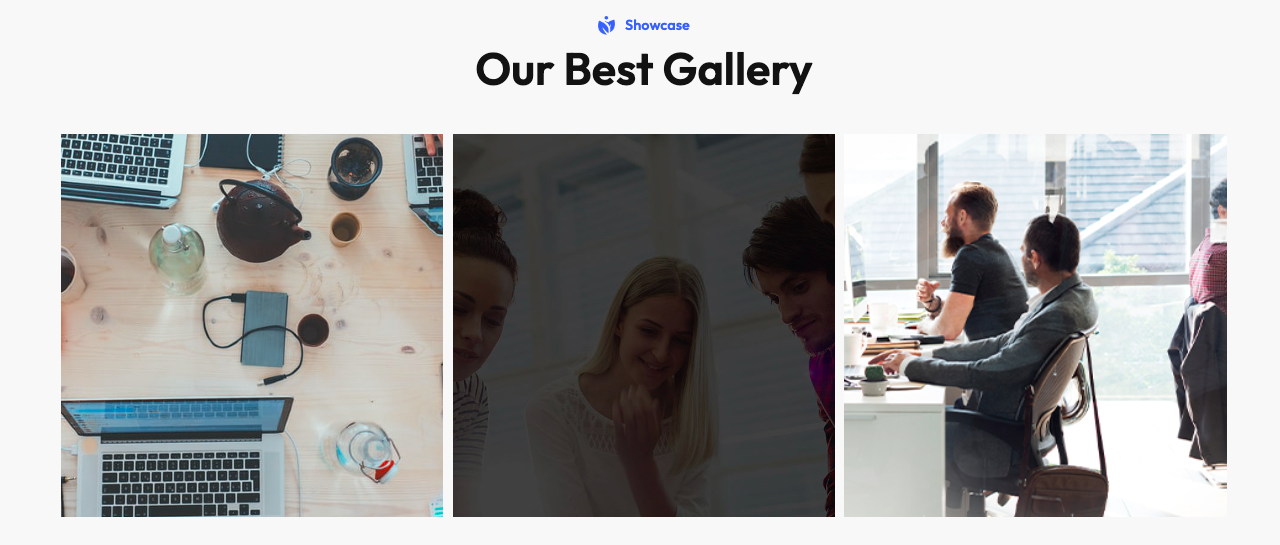
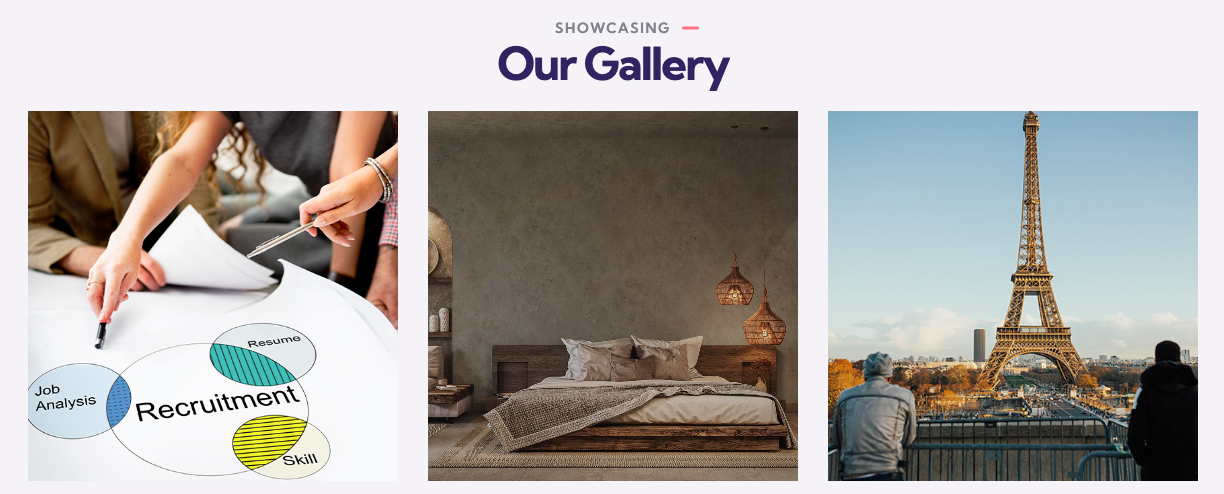
dynamic page final updates

diff --git a/resources/views/frontend/page/includes/slider_list.blade.php b/resources/views/frontend/page/includes/slider_list.blade.php
@@ -1,39 +1,93 @@
-<section class="news-one" style="background-color: #F5F7F8;padding: 100px 0 90px;margin-top: 40px;">
+{{--<section class="news-one" style="background-color: #F5F7F8;padding: 100px 0 90px;margin-top: 40px;">--}}
+{{--    <div class="container">--}}
+{{--        <div class="section-title text-center">--}}
+{{--            <div class="section-title__tagline-box">--}}
+{{--                <p class="section-title__tagline">{{ $element->first()->subtitle ?? '' }}</p>--}}
+{{--            </div>--}}
+{{--            <h2 class="section-title__title">{{ $element->first()->title ?? '' }}</h2>--}}
+{{--        </div>--}}
+{{--        <div class="row">--}}
+{{--            @if( $data['slider_list_type'] == 'normal')--}}
+{{--                  @include($base_route.'includes.slider_list_detail')--}}
+{{--            @else--}}
+{{--                <div class="news-carousel thm-owl__carousel owl-theme owl-carousel carousel-dot-style" data-owl-options='{--}}
+{{--                    "items": 3,--}}
+{{--                    "margin": 30,--}}
+{{--                    "smartSpeed": 600,--}}
+{{--                    "loop":true,--}}
+{{--                    "autoplay": 6000,--}}
+{{--                    "nav":false,--}}
+{{--                    "dots":true,--}}
+{{--                    "navText": ["<span class=\"fa fa-angle-left\"></span>","<span class=\"fa fa-angle-right\"></span>"],--}}
+{{--                    "responsive":{--}}
+{{--                        "0":{--}}
+{{--                            "items":1--}}
+{{--                        },--}}
+{{--                        "768":{--}}
+{{--                            "items":2--}}
+{{--                        },--}}
+{{--                        "992":{--}}
+{{--                            "items": 3--}}
+{{--                        }--}}
+{{--                    }--}}
+{{--                }'>--}}
+{{--                    @include($base_route.'includes.slider_list_detail')--}}
+{{--                </div>--}}
+{{--            @endif--}}
+{{--        </div>--}}
+{{--    </div>--}}
+{{--</section>--}}
+
+<div class="blog-three">
     <div class="container">
-        <div class="section-title text-center">
-            <div class="section-title__tagline-box">
-                <p class="section-title__tagline">{{ $element->first()->subtitle ?? '' }}</p>
-            </div>
-            <h2 class="section-title__title">{{ $element->first()->title ?? '' }}</h2>
+        <div class="blog-three__section_title d-flex justify-content-between align-items-center">
+            <div class="sec-title">
+
+                <h6 class="sec-title__tagline">{{ $element->first()->subtitle ?? '' }}</h6>
+
+                <h3 class="sec-title__title">{{ $element->first()->title ?? '' }}</h3>
+            </div><!-- /.sec-title -->
         </div>
-        <div class="row">
-            @if( $data['slider_list_type'] == 'normal')
-                  @include($base_route.'includes.slider_list_detail')
-            @else
-                <div class="news-carousel thm-owl__carousel owl-theme owl-carousel carousel-dot-style" data-owl-options='{
-                    "items": 3,
-                    "margin": 30,
-                    "smartSpeed": 600,
-                    "loop":true,
-                    "autoplay": 6000,
-                    "nav":false,
-                    "dots":true,
-                    "navText": ["<span class=\"fa fa-angle-left\"></span>","<span class=\"fa fa-angle-right\"></span>"],
-                    "responsive":{
-                        "0":{
-                            "items":1
-                        },
-                        "768":{
-                            "items":2
-                        },
-                        "992":{
-                            "items": 3
-                        }
-                    }
-                }'>
-                    @include($base_route.'includes.slider_list_detail')
-                </div>
-            @endif
+        <div class="row gutter-y-30">
+            <div class="portfolio-page__carousel modins-owl__carousel modins-owl__carousel--with-shadow modins-owl__carousel--basic-nav owl-carousel owl-theme" data-owl-options='{
+                                    "items": 1,
+                                    "margin": 0,
+                                    "loop": true,
+                                    "smartSpeed": 700,
+                                    "nav": false,
+                                    "navText": ["<span class=\"fa fa-angle-left\"></span>","<span class=\"fa fa-angle-right\"></span>"],
+                                    "dots": true,
+                                    "autoplay": true,
+                                    "responsive": {
+                                        "0": {
+                                            "items": 1
+                                        },
+                                        "576": {
+                                            "items": 2,
+                                            "margin": 30
+                                        },
+                                        "992": {
+                                            "items": 3,
+                                            "margin": 30
+                                        }
+                                    }
+                                }'>
+                @foreach($element as $index=>$row)
+                    <div class="item d-flex align-items-stretch">
+                        <div class="blog-card-three h-100" style="    background-color: #f4f3f8;">
+                            <img src="{{ asset(imagePath($row->image)) }}" alt="">
+                            <div class="blog-card-three__content">
+                                <h3 class="blog-card-three__title">
+                                    <a href="{{ route($base_route.'slider_single',@$row->list_subtitle) }}">
+                                        {{ $row->list_title ?? '' }}
+                                    </a>
+                                </h3>
+                                <p>{{ elipsis( strip_tags($row->list_description) )}}</p>
+                            </div>
+                        </div>
+                    </div>
+                @endforeach
+            </div>
         </div>
     </div>
-</section>
+</div>

diff --git a/resources/views/frontend/page/includes/gallery.blade.php b/resources/views/frontend/page/includes/gallery.blade.php
@@ -1,62 +1,25 @@
-
-
-
-
-{{--<section class="pt60 pb90 bgc-f8">--}}
-{{--    <div class="container">--}}
-{{--        <div class="col-lg-6 m-auto wow fadeInUp" data-wow-delay="300ms">--}}
-{{--            <div class="main-title2 text-start text-md-center">--}}
-{{--                <h2 class="title">{{ $element->list_number_1 ?? '' }}</h2>--}}
-{{--                <p class="paragraph">{{ $element->list_number_2 ?? '' }}</p>--}}
-{{--            </div>--}}
-{{--        </div>--}}
-{{--        <div class="row mb30 mt10 wow fadeInUp" data-wow-delay="300ms">--}}
-{{--            @foreach($element->pageSectionGalleries as $gallery)--}}
-{{--                <div class="item col-md-4">--}}
-{{--                    <div class="sp-img-content">--}}
-{{--                        <a class="popup-img preview-img-2 sp-img mb30" href="{{ asset(galleryImagePath('section_element').$gallery->resized_name) }}" style="width: 400px;height: 300px;border-radius: 12px;">--}}
-{{--                            <img class="w-100" src="{{ asset(galleryImagePath('section_element').$gallery->resized_name) }}" alt="" style="object-fit: cover;">--}}
-{{--                        </a>--}}
-{{--                    </div>--}}
-{{--                </div>--}}
-{{--            @endforeach--}}
-{{--        </div>--}}
-{{--    </div>--}}
-{{--</section>--}}
-<section class="portfolio-one">
-    <div class="portfolio-one__shape-1 float-bob-x">
-        <img class="lazy" data-src="{{ asset('assets/frontend/images/shapes/portfolio-one-shape-1.png') }}" alt="">
-    </div>
-    <div class="portfolio-one__shape-2 rotate-me">
-        <img class="lazy" data-src="{{ asset('assets/frontend/images/shapes/portfolio-one-shape-2.png') }}" alt="">
-    </div>
+<section class="portfolio-one portfolio-page" style="background-color: #f4f3f8;">
     <div class="container">
-        <div class="section-title text-center">
-            <div class="section-title__tagline-box">
-                <p class="section-title__tagline">{{ $element->list_number_2 ?? '' }}</p>
+        @if(@$element->list_number_1!==null)
+            <div class="sec-title sec-title-stand">
+                <h6 class="sec-title__tagline">{{ $element->list_number_1 ?? '' }}</h6>
+                <h3 class="sec-title__title">{{ $element->list_number_2 ?? '' }}</h3>
             </div>
-            <h2 class="section-title__title">{{ $element->list_number_1 ?? '' }}</h2>
-        </div>
-        <div class="row">
-            @foreach($element->pageSectionGalleries as $index=>$gallery)
-
-            <div class="col-xl-3 col-lg-6 col-md-6 wow fadeInDown" data-wow-delay="{{$index+1}}00ms">
-                <div class="portfolio-one__single">
-                    <div class="portfolio-one__img-box">
-                        <div class="portfolio-one__img">
-                            <img class="{{ @$page_detail->slug=='legal-document' || @$page_detail->slug=='legal-documents' || @$page_detail->slug=='sample-documents' || @$page_detail->slug=='sample-document' ? '':'image-dimension' }}" src="{{ asset(galleryImagePath('section_element').$gallery->resized_name) }}" alt="">
-                        </div>
-                        <div class="portfolio-one__arrow">
-                            <a href="{{ asset(galleryImagePath('section_element').$gallery->resized_name) }}" class="img-popup"><span
-                                    class="icon-top-right-1"></span></a>
+        @endif
+        <div class="row gutter-y-30">
+                @foreach($element->pageSectionGalleries as $index=>$gallery)
+                    <div class="col-md-6 col-lg-4">
+                        <div class="featured-imagebox featured-imagebox-portfolio style1">
+                            <div class="card" style="border: none">
+                                <div class="card-image gallery-item">
+                                    <a href="{{ asset(galleryImagePath('section_element').$gallery->resized_name) }}" data-fancybox="gallery">
+                                        <img src="{{ asset(galleryImagePath('section_element').$gallery->resized_name) }}" class="{{ @$page_detail->slug=='legal-document' || @$page_detail->slug=='legal-documents' || @$page_detail->slug=='sample-documents' || @$page_detail->slug=='sample-document' ? '':'image-dimension' }}" alt="Image Gallery">
+                                    </a>
+                                </div>
+                            </div>
                         </div>
                     </div>
-                </div>
-            </div>
-            @endforeach
-
+                @endforeach
         </div>
-
     </div>
 </section>
-

diff --git a/resources/views/frontend/page/slider_list/includes/sidebar.blade.php b/resources/views/frontend/page/slider_list/includes/sidebar.blade.php
@@ -1,39 +1,26 @@
-<div class="services-details__left">
+<div class="service-sidebar">
     @if(count( $data['latest']) > 0)
-
-        <div class="services-details__services-box">
-            <ul class="services-details__services-list list-unstyled">
+        <div class="service-sidebar__single">
+            <ul class="list-unstyled service-sidebar__nav">
                 @foreach($data['latest'] as $latest)
-                    <li>
-                        <a href="{{route($base_route.'slider_single',@$latest->list_subtitle)}}">
-                            {{$latest->list_title ?? ''}}<span
-                                class="icon-right-arrow1"></span></a>
-                    </li>
+                    <li><a href="{{route($base_route.'slider_single',@$latest->list_subtitle)}}">
+                            {{$latest->list_title ?? ''}}
+                        </a></li>
                 @endforeach
             </ul>
         </div>
     @endif
-    <div class="services-details__contact">
-        <h3 class="services-details__contact-title">Contact us</h3>
-        <ul class="services-details__contact-list list-unstyled">
-            <li>
-                <div class="icon">
-                    <span class="icon-location-1"></span>
-                </div>
-                <p>{{   $data['setting']->address ?? '' }}</p>
-            </li>
-            <li>
-                <div class="icon">
-                    <span class="icon-phone"></span>
-                </div>
-                <p><a href="tel:{{ $data['setting']->phone ?? $data['setting']->mobile }}">{{ $data['setting']->phone ?? $data['setting']->mobile }}</a></p>
-            </li>
-            <li>
-                <div class="icon">
-                    <span class="icon-envelope"></span>
-                </div>
-                <p><a href="mailto:{{ $data['setting']->email }}">{{ $data['setting']->email }}</a></p>
-            </li>
-        </ul>
+
+    <div class="service-sidebar__single ">
+        <div class="service-sidebar__contact background-base text-center" style="background-image: url( '{{ asset('assets/frontend/images/service/sidebar-service-bg.jpg') }}');">
+            <div class="service-sidebar__contact__icon">
+                <i class="icon-phone-call"></i>
+            </div>
+            <h3 class="service-sidebar__contact__title">Reach us quickly</h3><!-- /.service-sidebar__contact__title -->
+            <p class="service-sidebar__contact__number">
+                <span>Talk to an expert</span> <br>
+                <a href="tel:{{$data['setting']->phone ?? $data['setting']->mobile ?? ''}}">{{$data['setting']->phone ?? $data['setting']->mobile ?? ''}}</a>
+            </p>
+        </div>
     </div>
 </div>

diff --git a/resources/views/frontend/page/slider_list/includes/breadcrumb.blade.php b/resources/views/frontend/page/slider_list/includes/breadcrumb.blade.php
@@ -1,36 +1,16 @@
 <section class="page-header">
-    <div class="page-header__bg" style="background-image:url({{ isset($page_image) && $page_image  ? asset(imagePath($page_image)) :
- asset('assets/frontend/images/backgrounds/'.$breadcrumb_image) }});">
-    </div>
-    <div class="page-header__shape-1 float-bob-y">
-        <img src="{{ asset('assets/frontend/images/shapes/page-header-shape-1.png') }}" alt="">
-    </div>
-    <div class="page-header__shape-2 float-bob-x">
-        <img src="{{ asset('assets/frontend/images/shapes/page-header-shape-2.png') }}" alt="">
-    </div>
-    <div class="page-header__shape-3 float-bob-y">
-        <img src="{{ asset('assets/frontend/images/shapes/page-header-shape-3.png') }}" alt="">
-    </div>
-    <div class="page-header__shape-4 float-bob-x">
-        <img src="{{ asset('assets/frontend/images/shapes/page-header-shape-4.png') }}" alt="">
-    </div>
+    <div class="page-header__bg"></div>
     <div class="container">
-        <div class="page-header__inner">
-            <h2>  {{ $page_title }}</h2>
-            <ul class="thm-breadcrumb list-unstyled">
-                <li>
-                    <a href="/">Home</a>
-                </li>
-                <li><span class="icon-down-arrow"></span></li>
-                <li>
-                    <a href="{{route($base_route.'index', $data['row']->section->page->slug)}}">{{ucwords(@$data['row']->section->page->title)}}</a>
-                </li>
-                <li><span class="icon-down-arrow"></span></li>
-                <li>
+        <h2 class="page-header__title"> {{ $page_title }}</h2>
+        <ul class="modins-breadcrumb list-unstyled">
+            <li><a href="/">Home</a></li>
+            <li>
+                <a href="{{route($base_route.'index', $data['row']->section->page->slug)}}">{{ucwords(@$data['row']->section->page->title)}}</a>
+            </li>
+            <li><span>
                     {{ucwords(@$data['row']->list_title ?? $page_title ?? '')}}
-                </li>
-
-            </ul>
-        </div>
+              </span>
+            </li>
+        </ul>
     </div>
 </section>

diff --git a/resources/views/frontend/page/slider_list/show.blade.php b/resources/views/frontend/page/slider_list/show.blade.php
@@ -5,21 +5,19 @@
 
     @include($view_path.'slider_list.includes.breadcrumb',['breadcrumb_image'=>'image-3.jpeg'])
 
-    <section class="services-details">
+    <section class="service-details">
         <div class="container">
-            <div class="row">
-                <div class="col-xl-3 col-lg-4">
+            <div class="row gutter-y-30">
+                <div class="col-md-12 col-lg-4">
                     @include($view_path.'slider_list.includes.sidebar')
                 </div>
-                <div class="col-xl-9 col-lg-8">
-                    <div class="services-details__right">
-                        <div class="services-details__img">
+                <div class="col-md-12 col-lg-8">
+                    <div class="service-details__content">
+                        <div class="service-details__thumbnail">
                             <img class="lazy" data-src="{{ asset(imagePath($data['row']->image)) }}" alt="">
                         </div>
-                        <h3 class="services-details__title-1">
-                            {{ $data['row']->list_title ?? '' }}
-                        </h3>
-                        <div class="services-details__text-1 text-align-justify custom-description">
+                        <h3 class="service-details__title">  {{ $data['row']->list_title ?? '' }}</h3>
+                        <div class="service-details__text custom-description text-align-justify">
                             {!!  $data['row']->list_description !!}
                         </div>
                     </div>

diff --git a/resources/views/backend/page/index.blade.php b/resources/views/backend/page/index.blade.php
@@ -32,7 +32,7 @@
                             </div>
                         </div>
                         <div class="card-body">
-                            <div class="table-responsive  mt-3 mb-1">
+                            <div class="table-responsive mt-3 mb-1">
                                 <table id="dataTable" class="table align-middle table-nowrap table-striped">
                                     <thead class="table-light">
                                     <tr>

diff --git a/resources/views/frontend/page/index.blade.php b/resources/views/frontend/page/index.blade.php
@@ -3,7 +3,8 @@
 <link rel="stylesheet" href="{{ asset('assets/frontend/css/magnific-popup.css') }}" />
 <style>
     .image-dimension{
-        height: 270px;
+        height: 370px;
+        width: 370px;
         object-fit: cover;
     }
 </style>
